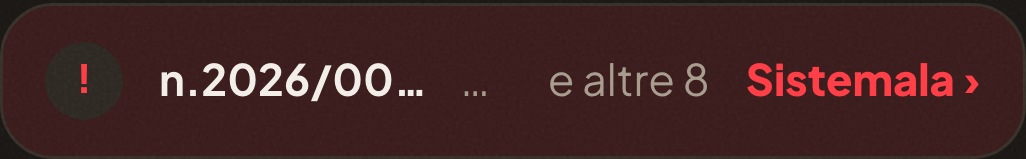
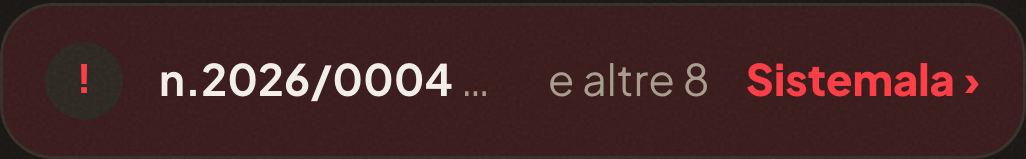
fix(striscia): zero, non «quasi zero» — un decimo di pixel basta a tagliare il numero
La prima stesura della decisione «il numero del lavoro non si taglia mai» dava
al numero un restringimento minuscolo invece di zero, sul ragionamento che una
quota sotto il pixel fosse innocua. Nel caso reale a 390 il numero cedeva 0,10px
su 98,02, e il banco lo dichiarava NON troncato — perché `scrollWidth` e
`clientWidth` sono interi arrotondati e 98 non è maggiore di 98.

Aprendo la cattura c'era scritto `n.2026/00…`. `text-overflow: ellipsis` scatta
appena il contenuto sborda, anche di un decimo di pixel, e per far posto ai
puntini il browser toglie diverse cifre: il difetto di partenza in una forma
appena diversa. Un numero che si tronca è un numero che si tronca, che manchi di
60px o di 0,1.

Ora `flex-shrink: 0` — zero è l'unico valore che regge la parola «mai» — più
`max-width: 100%` come valvola: in un contenitore flex la percentuale si risolve
sulla larghezza del contenitore, quindi un `forte` senza limite di lunghezza
(nome materiale, nome studio) non può uscire dal proprio blocco e spingere fuori
la CTA. Confronto misurato sul DOM vivo prima di toccare il sorgente:

  costruzione                        forte           numero   ellissi
  flex: 0 1 auto                     n.2026/0004      97,92    SÌ  → n.2026/00…
  flex-shrink: 0 + max-width: 100%   n.2026/0004      98,02    NO  → n.2026/0004
  flex: 0 1 auto                     nome da 329px   103,97    sì (giusto)
  flex-shrink: 0 + max-width: 100%   nome da 329px   103,97    sì (giusto)
[…]

Changed region(s): [[0.3743, 0.4025, 0.4678, 0.6038]]

diff --git a/tests/unit/ds-v3/componenti/pila-striscia.test.tsx b/tests/unit/ds-v3/componenti/pila-striscia.test.tsx
@@ -512,29 +512,39 @@ describe('StrisciaStato — «il numero non si taglia mai» (decisione Francesco
     }
   })
 
-  it('la frase cede PRIMA del numero: flex-shrink(frase) > flex-shrink(numero)', () => {
+  // ⚠ LA GUARDIA CHE MI È COSTATA UN GIRO DI MISURE (26/07, difetto visto solo aprendo la
+  // cattura). Un primo tentativo dava al numero un restringimento MINUSCOLO invece di zero,
+  // sul ragionamento che una quota sotto il pixel fosse innocua. Non lo è: nel caso reale a 390
+  // il numero cedeva 0,10px su 98,02, e `text-overflow: ellipsis` scatta appena il contenuto
+  // sborda — anche di un decimo — togliendo DIVERSE CIFRE per far posto ai puntini. A schermo si
+  // leggeva `n.2026/00…` invece di `n.2026/0004`: il difetto di partenza in una forma appena
+  // diversa. jsdom non fa layout e non può vedere quell'ellissi: qui si presidia il valore che la
+  // produce. Zero è l'unico numero che regge la parola «mai».
+  it('il numero non cede NEMMENO un decimo di pixel finché la frase ha spazio: flex-shrink esattamente 0 (un valore minuscolo ma diverso da zero fa scattare comunque l\'ellissi e mangia le cifre)', () => {
+    const { container } = rendiPeggiore()
+    expect(restringimento(container.querySelector('b')!)).toBe(0)
+  })
+
+  it('la frase invece cede: è l\'unico nodo del blocco con un fattore di restringimento vivo', () => {
     const { container } = rendiPeggiore()
     const numero = container.querySelector('b')!
     const frase = [...container.querySelectorAll<HTMLElement>('span')].find(
       (n) => (n.textContent ?? '').includes(FRASE) && !n.contains(numero) && getComputedStyle(n).textOverflow === 'ellipsis'
     )
     expect(frase, 'nodo frase separato non trovato').toBeTruthy()
+    expect(restringimento(frase!)).toBeGreaterThan(0)
     expect(restringimento(numero)).toBeLessThan(restringimento(frase!))
   })
 
-  // ⚠ LA GUARDIA CHE MI È COSTATA UN GIRO DI MISURE (26/07, difetto trovato in browser dopo
-  // averlo scritto sbagliato qui). Un fattore < 1 sul numero SEMBRA «un freno ancora più forte»
-  // e nei casi normali dà px identici — ma la regola di risoluzione delle lunghezze flessibili
-  // (CSS Flexbox §9.7, passo 4b) taglia lo spazio assorbibile a «spazio libero iniziale × somma
-  // dei fattori ancora liberi» quando quella somma è minore di 1. All'ultimo giro resta libero
-  // il solo numero: con 0,001 poteva cedere ~0,4px in tutto, cioè la valvola non si apriva MAI, e
-  // un `forte` senza limite di lunghezza (nome materiale, nome studio) usciva dal proprio blocco
-  // e finiva SOPRA il conteggio e la CTA — misurato 55px oltre il bordo interno della card a 390.
-  // jsdom non fa layout e non può vedere quello sforo: qui si presidia l'invariante numerica che
-  // lo produce.
-  it('il fattore del numero resta ≥ 1: sotto 1 il flexbox non gli farebbe cedere quasi nulla all\'ultimo giro (§9.7 passo 4b) e un nome lungo scriverebbe SOPRA conteggio e CTA', () => {
+  // La valvola. `flex-shrink: 0` da solo non basta: `forte` porta anche nomi SENZA limite di
+  // lunghezza (materiale s5, studio s7, «Account di …»), e un `flex: none` nudo li lascerebbe
+  // alla loro larghezza naturale spingendo la CTA FUORI dalla card — oggi si troncano soltanto,
+  // quindi sarebbe una regressione. `max-width: 100%` in un contenitore flex si risolve sulla
+  // larghezza del contenitore: il numero non può mai essere più largo del blocco che lo ospita.
+  // Misurato a 390 su blocco 103,97px: un nome da 329px viene fermato a 103,97, sforo zero.
+  it('il numero ha la valvola `max-width: 100%`: senza, un `forte` senza limite di lunghezza spingerebbe la CTA fuori dalla card', () => {
     const { container } = rendiPeggiore()
-    expect(restringimento(container.querySelector('b')!)).toBeGreaterThanOrEqual(1)
+    expect(getComputedStyle(container.querySelector('b')!).maxWidth).toBe('100%')
   })
 
   it('il numero non va mai a capo, e la sua tipografia non cambia (700 su --ink)', () => {
@@ -555,6 +565,26 @@ describe('StrisciaStato — «il numero non si taglia mai» (decisione Francesco
   it('la CTA resta intera in ogni caso (flex-shrink 0)', () => {
     rendiPeggiore()
     expect(restringimento(screen.getByRole('link', { name: 'Sistemala ›' }))).toBe(0)
+  })
+
+  // Senza `forte` (racconto, s8, sPareteIntro) NON deve comparire lo spazio unificatore che
+  // separa numero e frase: la frase aprirebbe con uno spazio in testa, cioè con un rientro che
+  // nessuno ha chiesto. Il racconto è la variante che questo cambio tocca in modo meno ovvio —
+  // vive dentro il <a> di tutta la card, accanto al chevron — e con i dati di questo laboratorio
+  // non è raggiungibile sulla build vera (serve una liberazione per consegna nelle ultime 24h,
+  // eredità dichiarata del gate §6.2): qui è presidiata dove si può presidiare davvero.
+  it('senza `forte` la frase non prende nessuno spazio in testa (racconto, DdC del giorno, intro parete)', () => {
+    const { container } = render(
+      <StrisciaStato azione={{ etichetta: 'Guarda ›', href: '/dashboard?stanza=parete' }} eventoId="lib-c1-x">
+        UÀ ha liberato C12
+      </StrisciaStato>
+    )
+    expect(container.querySelector('b')).toBeNull()
+    const frase = [...container.querySelectorAll<HTMLElement>('span')].find(
+      (n) => getComputedStyle(n).textOverflow === 'ellipsis'
+    )
+    expect(frase, 'nodo frase non trovato').toBeTruthy()
+    expect(frase!.textContent).toBe('UÀ ha liberato C12')
   })
 
   it('le parole non cambiano: numero + spazio + frase, nell\'ordine di prima', () => {

diff --git a/src/components/ds/StrisciaStato.tsx b/src/components/ds/StrisciaStato.tsx
@@ -207,29 +207,34 @@ export function StrisciaStato(props: {
   // unificatore in testa alla frase (stesso peso 500, stessa larghezza misurata — 2.47px a 14.5px
   // — e, a differenza di uno spazio normale, non viene mangiato dall'inizio riga del nuovo box).
   //
-  // PERCHÉ IL NUMERO NON È `flex: none`, MA CEDE PER ULTIMO. `forte` non porta solo numeri di
-  // lavoro: porta anche nomi liberi e SENZA limite di lunghezza (materiale in esaurimento s5,
-  // studio con pagamento scaduto s7, «Account di …», v. striscia.ts). Con `flex: none` un nome
-  // lungo spingerebbe la CTA fuori dalla card — oggi si tronca soltanto, quindi sarebbe una
-  // regressione. La scala di priorità è scritta nei FATTORI DI RESTRINGIMENTO invece che in una
-  // soglia: la frase cede 1000 volte più in fretta del numero, quindi finché la frase ha spazio
-  // la quota che tocca al numero resta sotto il pixel (misurato: 0,09px nel caso reale a 390);
-  // quando la frase arriva a zero il flexbox la congela e SOLO ALLORA gira tutto il resto al
-  // numero. I numeri di lavoro a quel punto non ci arrivano mai; i nomi senza limite sì, ed è
-  // giusto che tocchi a loro.
+  // COME È SCRITTA LA REGOLA «non si taglia mai»: il numero non cede NEMMENO UN PIXEL finché la
+  // frase ha ancora spazio (`flex-shrink: 0`), e ha una valvola (`max-width: 100%`) che gli
+  // impedisce di uscire dal proprio blocco quando lo spazio finisce davvero.
   //
-  // ⚠ IL FATTORE DEL NUMERO DEVE RESTARE ≥ 1 — non è un dettaglio di stile, è una trappola vera
-  // del flexbox, misurata su questa stessa striscia. Prima qui c'era `flex: 0 0.001 auto`, che
-  // sembra «un freno mille volte più forte» ed è la stessa proporzione di adesso: nei casi
-  // normali dava px identici. Ma la regola di risoluzione delle lunghezze flessibili
-  // (CSS Flexbox §9.7, passo 4b) dice che quando la somma dei fattori degli elementi ancora
-  // liberi è MINORE DI 1, lo spazio che possono assorbire viene tagliato a
-  // «spazio libero iniziale × quella somma». All'ultimo giro resta libero il solo numero: con
-  // fattore 0,001 poteva cedere ~0,4px in tutto, cioè la valvola non si apriva MAI — e un nome
-  // lungo usciva dal proprio blocco e andava a scriversi SOPRA il conteggio e la CTA (misurato:
-  // 55px oltre il bordo interno della card, a 390). Con fattore 1 l'ultimo giro non viene
-  // tagliato e il nome si tronca dentro il suo blocco, come deve. Guardia:
-  // tests/unit/ds-v3/componenti/pila-striscia.test.tsx.
+  // ⚠ «QUASI ZERO» NON BASTA, ed è la trappola che ho preso misurando in browser. Un primo
+  // tentativo dava al numero un restringimento minuscolo invece di zero, sul ragionamento che una
+  // quota sotto il pixel fosse innocua: nel caso reale a 390 il numero cedeva **0,10px** su 98,02.
+  // Non è innocua per niente. `text-overflow: ellipsis` scatta appena il contenuto sborda, anche
+  // di un decimo di pixel, e per far posto ai puntini il browser toglie DIVERSE CIFRE: a schermo
+  // si leggeva `n.2026/00…` invece di `n.2026/0004`, cioè il difetto di partenza in una forma
+  // appena diversa. Un numero che si tronca è un numero che si tronca, che manchi di 60px o di
+  // 0,1. Perciò `flex-shrink: 0`: zero è l'unico valore che regge la parola «mai».
+  //
+  // ⚠ E PERCHÉ NON `flex: none` E BASTA. `forte` non porta solo numeri di lavoro: porta anche
+  // nomi liberi e SENZA limite di lunghezza (materiale in esaurimento s5, studio con pagamento
+  // scaduto s7, «Account di …», v. striscia.ts). Un `flex: none` nudo li lascerebbe alla loro
+  // larghezza naturale e spingerebbe la CTA FUORI dalla card — oggi si troncano soltanto, quindi
+  // sarebbe una regressione. `max-width: 100%` è la valvola: in un contenitore flex la percentuale
+  // si risolve sulla larghezza del contenitore, quindi il numero non può mai essere più largo del
+  // blocco che lo ospita. Misurato a 390 (blocco 103,97px): `n.2026/0004` resta intero a 98,02
+  // SENZA ellissi; un nome da 329px viene fermato a 103,97 e si tronca DENTRO il suo blocco, con
+  // sforo zero e CTA intatta.
+  //
+  // LIMITE DICHIARATO: a 390, con conteggio e CTA accesi, il blocco disponibile è 103,97px. Un
+  // `forte` più largo di così si tronca comunque — succede solo ai `forte` che NON sono numeri di
+  // lavoro (`Fattura n.2026/0004` misura 151,45px). Non è aggirabile senza togliere spazio al
+  // conteggio, che la stessa decisione mette PRIMA della frase.
+  // Guardia: tests/unit/ds-v3/componenti/pila-striscia.test.tsx.
   const testo = (
     <span
       style={{
@@ -246,7 +251,8 @@ export function StrisciaStato(props: {
       {forte && (
         <b
           style={{
-            flex: '0 1 auto',
+            flex: '0 0 auto', // zero: il numero non cede nemmeno un decimo di px (v. sopra)
+            maxWidth: '100%', // la valvola: un `forte` senza limite non esce mai dal suo blocco
             minWidth: 0,
             whiteSpace: 'nowrap',
             overflow: 'hidden',

diff --git a/src/components/features/cassette/useDragRiordino.ts b/src/components/features/cassette/useDragRiordino.ts
@@ -34,9 +34,12 @@
 // 0c37f25, `docs/design/decisions/2026-07-25-wave-h-scelte.md` §H3). Indagine PROVATA:
 // `.superpowers/sdd/h3-indagine-report.md`. Root cause: `frame()` confrontava il CENTRO DEL
 // GHOST (`centroOrigineRef` + delta dal lift) col punto medio fra due centri-TRACK di
-// `indiceDaPunto` — su `.ds-parete-grid` (`align-items:start`, track ≫ cassetta: 200/250px contro
-// l'altezza fissa del commit 21a0b17 «cassetta B», oggi 138px dopo la ratifica A3 del 26/07/2026 —
-// letta a runtime da un rect vero, mai ricopiata qui) quel punto medio cade nella maglia VUOTA sotto la
+// `indiceDaPunto` — su `.ds-parete-grid` (`align-items:start`, track PIÙ ALTO della cassetta:
+// 200px sul telefono, 179,52-200 dal tablet in su dopo la decisione «avvicino le righe» del
+// 26/07/2026 — erano 200/250 prima; il track è comunque LETTO a runtime da `grid-auto-rows`, mai
+// ricopiato qui, quindi la decisione non tocca questo codice — contro l'altezza fissa del commit
+// 21a0b17 «cassetta B», oggi 138px dopo la ratifica A3 del 26/07/2026, anche lei letta a runtime
+// da un rect vero) quel punto medio cade nella maglia VUOTA sotto la
 // cassetta, non su una cassetta vera; e se la presa non è al centro (si afferra la targa in
 // alto, il caso reale), il ghost-centro "precede" il dito — il riordino scattava mentre il dito
 // era ancora sopra la cassetta d'origine. FIX-F/`pitchY` restano CORRETTI e INVARIATI (l'indagine

diff --git a/src/components/features/cassette/riordino-core.ts b/src/components/features/cassette/riordino-core.ts
@@ -61,8 +61,10 @@ export function indiceDaPunto(punto: Punto, geo: Geometria, n: number): number {
  * non nel track intero. Su `.ds-parete-grid` (`align-items:start`, cassetta ad altezza fissa per
  * tutte dal commit 21a0b17 «cassetta B» — il valore vive in `--altezza-cassetta` in ds-v3.css, 138px
  * dopo la ratifica A3 del 26/07/2026, ma qui NON si ricopia: `cellaH` è sempre MISURATO a runtime da
- * un rect vero, v. useDragRiordino) il track (`pitchY`) è molto più alto della cassetta
- * (`cellaH`): la maglia VUOTA sotto ogni cassetta (`cellaH`..`pitchY`) — dove cadeva il vecchio
+ * un rect vero, v. useDragRiordino) il track (`pitchY`) è più alto della cassetta (`cellaH`) —
+ * di 62px sul telefono, di 41,52-62 dal tablet in su dopo la decisione «avvicino le righe» del
+ * 26/07/2026, che ha accorciato il track ma non l'ha mai portato sotto l'altezza della cassetta:
+ * la maglia VUOTA sotto ogni cassetta (`cellaH`..`pitchY`) — dove cadeva il vecchio
  * punto di flip, il punto medio fra i centri-track — NON è area di scatto. Un punto lì (o fuori
  * griglia, o oltre l'ultima cella di una riga parziale) restituisce `null`: NESSUN bersaglio, non
  * un indice "clampato" che finga un ingresso mai avvenuto — a differenza di `indiceDaPunto`

diff --git a/src/app/ds-v3.css b/src/app/ds-v3.css
@@ -1227,6 +1227,12 @@
    Da NON raccontare come «un solo ritmo»: le due pareti cambiano INSIEME e riservano tutt'e due
    4 maglie, ma i px fra le file restano diversi (62 su /cassette, 41,5 nella home) perché diverso
    è il passo della loro maglia.
+   PERCHÉ LA REGOLA STA SUL SELETTORE BASE e non su `.ds-parete-shell .ds-parete`. Perché di
+   `.ds-parete` esiste UN SOLO renderer in tutto il progetto — `PareteClient.tsx`, che lo scrive
+   dentro il proprio `.ds-parete-shell` — quindi non c'è nessun muro fuori dal perimetro fluido a
+   cui questa regola potrebbe arrivare con il passo BASE di 44px (dove 4 maglie darebbero 176px di
+   riga e solo 18px oltre la zona del gancio). ⚠ Se un domani qualcuno rendesse `.ds-parete`
+   FUORI da `.ds-parete-shell`, questa regola va riscritta scoped sulla shell.
    Guardia: tests/unit/ds-v3/parete-gancio-cornice.test.ts — legge i due multipli DAL FOGLIO,
    pretende che siano interi e ricalcola la maglia libera a ogni viewport. */
 @media (min-width: 768px) { [data-ds="v3"] .ds-parete { --track: calc(var(--passo-maglia) * 4); } }

diff --git a/memory/MEMORY.md b/memory/MEMORY.md
@@ -1,5 +1,7 @@
 # UÀ — Project Memory
-**Ultimo aggiornamento:** 23 luglio 2026 (38) — **ONDATA «REDESIGN PARETE/HOME» PRONTA ALL'ESECUZIONE.** Piano 17 task TDD in 4 fasi scritto e committato (`docs/superpowers/plans/2026-07-23-redesign-parete-home.md`, `5560833`) dalla spec ratificata (voce 37). Esecuzione in sessione NUOVA via subagent-driven-development (scelta Francesco): **handoff `docs/roadmap/2026-07-23-redesign-parete-home-execution-handoff.md`** — worktree `redesign-parete-home`, ordine task 1→17, 5 fermate 🛑 (ascolto suoni · mockup rete+gancetto+targa · mockup striscia · QA device metà ondata · merge). Guardie `parete-fluida.test.ts`: adeguamento T8, abrogazione assert 5 con decision record T12, nuova guardia home T14 — mai fuori da questi punti. Nessuna migration (linguetta e racconti-visti in localStorage, pattern `ua_sounds_v3`).
+**Ultimo aggiornamento:** 26 luglio 2026 (39) — **LE DUE DECISIONI DI FRANCESCO AL GATE ESTETICO L2 DELL'ONDATA «REDESIGN PARETE/HOME» SONO IMPLEMENTATE** (worktree `redesign-parete-home`, commit `453660d` · `384168e` · `6d26f83` + fix; branch pronta da offrire al merge). **(1) «Il numero del lavoro non si taglia mai»** — nella striscia di stato numero e frase condividevano un'unica ellissi e a 390 spariva il numero (`n.2026/000…`); ora il numero ha un nodo suo con `flex-shrink: 0` + `max-width: 100%` (la valvola per i `forte` senza limite di lunghezza: materiale, studio, «Account di…») e a troncarsi è solo la frase; il conteggio «e altre N» resta intoccabile. ⚠ **Lezione incisa nel codice:** un restringimento «sotto il pixel» NON è innocuo su un testo con `text-overflow` — 0,10px bastano a far scattare i puntini e a mangiare tre cifre; e un flag su `scrollWidth`/`clientWidth` non lo vede perché sono interi. **(2) «Avvicino le righe»** — `--track` passa da 5 a 4 maglie **dal tablet in su** (`@media (min-width: 768px)`, MAI una container query: `/cassette` e la stanza parete della home hanno container di 680 e 440px alla stessa finestra e cambierebbero passo in due momenti diversi); sul telefono resta 5 perché lì il passo è al pavimento di 40px. Muro da 24 cassette a 1280: 1342 → 1092px. Caso più stretto: home a 768, 21,5px di maglia oltre i 20 del gancio — verificato a occhio, regge. Congruenza gancio↔filo intatta (4 è intero). **Le 6 raccomandazioni del gate sono ora in `docs/roadmap/2026-07-26-backlog-ondata-parete-home.md`** (tracciato): R1/R2 chiuse, R3-R6 aperte, più una voce nuova — **a 1280 la striscia vive nel rail di NavDesk, che le lascia 178px contro i 208 richiesti: il soggetto resta a zero e si legge «! e un'altra Conferma ›»**, difetto PREESISTENTE e misurato identico prima/dopo, da decidere con Francesco. Suite 3283 verdi / 19 skip · tsc 0 · build OK. Rapporto: `.superpowers/sdd/gate-decisioni-report.md`.
+
+**Aggiornamento precedente:** 23 luglio 2026 (38) — **ONDATA «REDESIGN PARETE/HOME» PRONTA ALL'ESECUZIONE.** Piano 17 task TDD in 4 fasi scritto e committato (`docs/superpowers/plans/2026-07-23-redesign-parete-home.md`, `5560833`) dalla spec ratificata (voce 37). Esecuzione in sessione NUOVA via subagent-driven-development (scelta Francesco): **handoff `docs/roadmap/2026-07-23-redesign-parete-home-execution-handoff.md`** — worktree `redesign-parete-home`, ordine task 1→17, 5 fermate 🛑 (ascolto suoni · mockup rete+gancetto+targa · mockup striscia · QA device metà ondata · merge). Guardie `parete-fluida.test.ts`: adeguamento T8, abrogazione assert 5 con decision record T12, nuova guardia home T14 — mai fuori da questi punti. Nessuna migration (linguetta e racconti-visti in localStorage, pattern `ua_sounds_v3`).
 
 **Aggiornamento precedente:** 23 luglio 2026 (37) — **ONDATA «REDESIGN PARETE/HOME»: SPEC RATIFICATA DA FRANCESCO, piano in scrittura.** Brainstorming in sessione (foto portacassette reali fornite come riferimento; decisioni D1-D8 nella spec): rete metallica DISEGNATA (repeating-gradient, mai foto) sul muro `.ds-parete` + gancetto SVG inline per cassetta; targa nuova = cassetta+dentista+paziente (**alias vince sul codice**, numero lavoro fuori targa; disambiguatore solo in collisione dentista+paziente); ricerca «filtra e risali» (debounce ~150-200ms, layout="position", uscita secca; stato `spenta` muore); «Metti un lavoro» dallo sheet della libera; 2 suoni WAV stacco/ri-aggancio + haptic (ri-aggancio ATTENUATO anche su annullo — divergenza panel composta e ratificata; deroga «max 1 suono/gesto» da incidere in DS v3 §9.2); **linguetta C2** (basso-destra, ~26px visivi + hit-area ≥44, si ritira dopo ~5s, si spegne dopo 3 accessi riusciti; mockup `2026-07-23-invito-swipe-linguetta-rifinita.html` ratificato) sostituisce peek 28px+bounce; «La tua home» RESTA a 3 modi con stanza parete = **PareteClient vero embedded** (StanzaParete muore; refresh gated fuori-stanza; mount differito; riordino da parametrizzare su scrollRef PRIMA dell'embed [bloccante ARCH]; colonne parete → container query); pile centrate + scala verticale FLUIDA home (wrapper container-type:size, floor px, degrado P3 resta; guardie `parete-fluida.test.ts` assert 4-5 DA ABROGARE/sostituire con decision record); striscia: allarmi aggregati > trial (≤3gg escala) > racconto TTL 24h tappabile > silenzio. Panel 3× CONFERMATA CON RISERVE (23 integrate, verbale spec §8). Spec: `docs/superpowers/specs/2026-07-23-redesign-parete-home-design.md` (commit `af40528`). Gate visivi residui: mockup rete+gancetto+targhe · striscia · 2 coppie suoni.
 

diff --git a/memory/SESSION_ACTIVE.md b/memory/SESSION_ACTIVE.md
@@ -1,26 +1,21 @@
-# Sessione attiva — 26/07/2026 (verifica finale wave H + variante 6 nomi)
-Worktree `redesign-parete-home` @ `a1c4fcb`. **3127 verdi / 19 skip · tsc 0 · build ok.**
-Collaudo :3020 da riavviare sulla build corrente.
+# Sessione attiva — 26/07/2026 (le due decisioni del gate estetico L2)
+Worktree `redesign-parete-home`. **3283 verdi / 19 skip · tsc 0 · build ok.** Collaudo :3020
+riavviato sulla build corrente, guardia stili verde.
 
-**Collaudo device Francesco (build 5ccc564): 4 punti su 5 PASS.** Tasto centrato · fondo unico ·
-suoni · striscia panna SPARITA. La barra gesture NON è un difetto: in scheda di browser
-quell'area è del browser. `display: standalone` → **da PWA installata** la pagina la copre.
-🛑 Francesco deve riprovare **installando l'app da icona**.
+**Fatte le due decisioni di Francesco al gate L2.** (1) *«Il numero del lavoro non si taglia
+mai»*: nella striscia il numero ha un nodo suo (`flex-shrink: 0` + `max-width: 100%`), a
+troncarsi è solo la frase, il conteggio resta intoccabile. (2) *«Avvicino le righe»*: il muro
+riserva 4 maglie per fila **dal tablet in su** (@media 768, mai container query — le due pareti
+hanno container 680 e 440 alla stessa finestra), 5 sul telefono.
 
-**Chiusi oggi:** 1a TastoPiù (`*/` in un commento CSS) · 1b muro fino in fondo (+ round 2:
-regola più specifica scartava il recupero) · fondo unico in 4 posti (`--bg`, `--ua-bg`,
-`--adm-bg`, **manifest**) · variante 6 nomi studio · **guardia via A** (`74ca230`) ·
-scala che girava due volte (`a1c4fcb`).
+**Trappola incisa nei commenti:** un restringimento «sotto il pixel» non è innocuo su un testo
+con `text-overflow` — 0,10px fanno scattare i puntini e mangiano tre cifre. Vista solo aprendo
+la cattura: i numeri arrotondati la nascondevano.
 
-**Panel advisor** (UX · architettura · dati) su richiesta di Francesco:
-`docs/design/decisions/2026-07-26-parole-categoria-panel.md`, base ricerca su **1.604 nomi reali**.
-Ratificato: **via A** · campo «nome breve» **NON si fa** («per ora lascia perdere») ·
-`dental` resta fuori · `studio_nome` intoccabile (è la denominazione in fattura elettronica,
-verificato `generate-xml.ts:262`; legame indiretto alla DdC via `studio-members` a confronto esatto).
+**Aperto per Francesco:** a 1280 la striscia sta nel rail di NavDesk, 178px contro 208 richiesti
+→ allarme senza soggetto. Preesistente, misurato identico prima/dopo, in backlog: serve una
+decisione di forma. Restano R3-R6 del gate.
 
-**Aperto:** le 2 parole nuove (`stomatologico`, `dentista`) NON aggiunte — commit separato, mai
-ratificate. Nomi paziente: ratificato che il **wizard chiederà nome e cognome** (campo non
-obbligatorio) — da progettare. Bottone oro: deferito alle ondate di migrazione.
-
-**Poi:** T15 → T16 striscia → T17 chiusura + merge a parola di Francesco.
-Verbale (LEGGE): `docs/design/decisions/2026-07-24-qa-device-meta-ondata.md` APPEND 26/07.
+**Poi:** offrire la branch al merge (a parola di Francesco).
+Rapporto: `.superpowers/sdd/gate-decisioni-report.md` · backlog:
+`docs/roadmap/2026-07-26-backlog-ondata-parete-home.md`.
